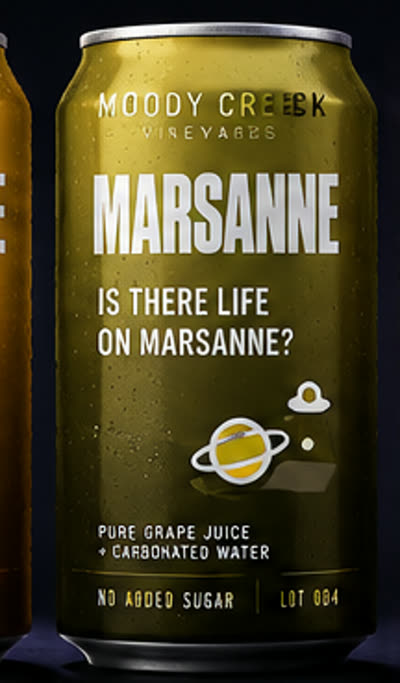
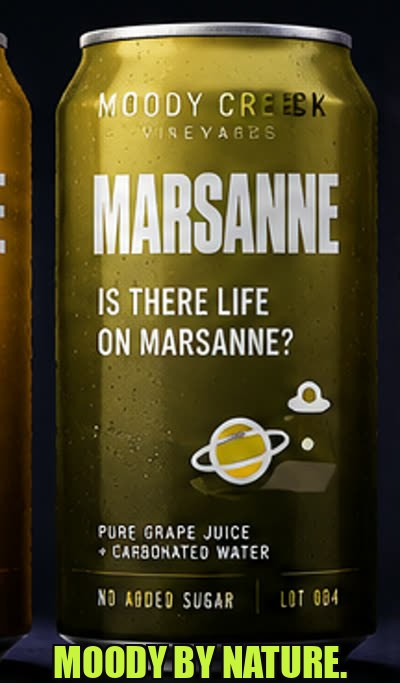
Add 'Moody by Nature.' tagline — hero, ticker, can line, baked into can renders

Changed region(s): [[0.12, 0.9224, 0.87, 1.0]]

diff --git a/labels.html b/labels.html
@@ -73,6 +73,7 @@ h1 .b{color:var(--verjus)}
 .art{width:4.7rem;height:auto;margin-block:.2rem;filter:drop-shadow(0 3px 7px rgba(0,0,0,.35))}
 .variety{font-size:clamp(1.05rem,3.4vw,1.35rem);line-height:.92;letter-spacing:.02em;
   text-shadow:0 2px 10px rgba(0,0,0,.35)}
+.mbn{font-family:var(--display);text-transform:uppercase;font-size:.62rem;letter-spacing:.18em;color:#C6F53C;opacity:.95}
 .punline{font-family:var(--body);font-style:italic;font-size:.66rem;line-height:1.25;opacity:.95}
 .kindline{font-family:var(--mono);font-size:.5rem;letter-spacing:.16em;text-transform:uppercase;opacity:.85}
 .bigstat{display:flex;align-items:baseline;gap:.4rem;margin-top:.35rem;
@@ -159,6 +160,7 @@ a{color:var(--verjus)}
       <h3 class="variety">Sémillon</h3>
       <p class="punline">One in a Sémillon.</p>
       <p class="kindline">White grape &middot; Sparkling</p>
+      <p class="mbn">Moody by Nature.</p>
       <div class="bigstat">
         <span class="num">12<span class="unit">g</span></span>
         <span class="lbl">sugar<br>per can</span>
@@ -217,6 +219,7 @@ a{color:var(--verjus)}
       <h3 class="variety">Sauvignon Blanc</h3>
       <p class="punline">My mind's gone Blanc.</p>
       <p class="kindline">White grape &middot; Sparkling</p>
+      <p class="mbn">Moody by Nature.</p>
       <div class="bigstat">
         <span class="num">11<span class="unit">g</span></span>
         <span class="lbl">sugar<br>per can</span>
@@ -275,6 +278,7 @@ a{color:var(--verjus)}
       <h3 class="variety">Roussanne</h3>
       <p class="punline">Roussanne shine, sleepyhead.</p>
       <p class="kindline">White grape &middot; Sparkling</p>
+      <p class="mbn">Moody by Nature.</p>
       <div class="bigstat">
         <span class="num">12<span class="unit">g</span></span>
         <span class="lbl">sugar<br>per can</span>
@@ -333,6 +337,7 @@ a{color:var(--verjus)}
       <h3 class="variety">Marsanne</h3>
       <p class="punline">Is there life on Marsanne?</p>
       <p class="kindline">White grape &middot; Sparkling</p>
+      <p class="mbn">Moody by Nature.</p>
       <div class="bigstat">
         <span class="num">12<span class="unit">g</span></span>
         <span class="lbl">sugar<br>per can</span>
@@ -391,6 +396,7 @@ a{color:var(--verjus)}
       <h3 class="variety">Grenache</h3>
       <p class="punline">We hold no Grenache.</p>
       <p class="kindline">Red grape &middot; Sparkling</p>
+      <p class="mbn">Moody by Nature.</p>
       <div class="bigstat">
         <span class="num">12<span class="unit">g</span></span>
         <span class="lbl">sugar<br>per can</span>
@@ -449,6 +455,7 @@ a{color:var(--verjus)}
       <h3 class="variety">Montepulciano</h3>
       <p class="punline">The full Monte.</p>
       <p class="kindline">Red grape &middot; Sparkling</p>
+      <p class="mbn">Moody by Nature.</p>
       <div class="bigstat">
         <span class="num">13<span class="unit">g</span></span>
         <span class="lbl">sugar<br>per can</span>
@@ -507,6 +514,7 @@ a{color:var(--verjus)}
       <h3 class="variety">Merlot</h3>
       <p class="punline">How Merlot can you go?</p>
       <p class="kindline">Red grape &middot; Sparkling</p>
+      <p class="mbn">Moody by Nature.</p>
       <div class="bigstat">
         <span class="num">11<span class="unit">g</span></span>
         <span class="lbl">sugar<br>per can</span>
@@ -565,6 +573,7 @@ a{color:var(--verjus)}
       <h3 class="variety">Malbec</h3>
       <p class="punline">Malbec by popular demand.</p>
       <p class="kindline">Red grape &middot; Sparkling</p>
+      <p class="mbn">Moody by Nature.</p>
       <div class="bigstat">
         <span class="num">11<span class="unit">g</span></span>
         <span class="lbl">sugar<br>per can</span>
@@ -623,6 +632,7 @@ a{color:var(--verjus)}
       <h3 class="variety">Syrah</h3>
       <p class="punline">Que Syrah, Syrah.</p>
       <p class="kindline">Red grape &middot; Sparkling</p>
+      <p class="mbn">Moody by Nature.</p>
       <div class="bigstat">
         <span class="num">11<span class="unit">g</span></span>
         <span class="lbl">sugar<br>per can</span>
@@ -681,6 +691,7 @@ a{color:var(--verjus)}
       <h3 class="variety">Cabernet Franc</h3>
       <p class="punline">Let's be Franc.</p>
       <p class="kindline">Red grape &middot; Sparkling</p>
+      <p class="mbn">Moody by Nature.</p>
       <div class="bigstat">
         <span class="num">12<span class="unit">g</span></span>
         <span class="lbl">sugar<br>per can</span>
@@ -739,6 +750,7 @@ a{color:var(--verjus)}
       <h3 class="variety">Cabernet Sauvignon</h3>
       <p class="punline">Hail a Cab.</p>
       <p class="kindline">Red grape &middot; Sparkling</p>
+      <p class="mbn">Moody by Nature.</p>
       <div class="bigstat">
         <span class="num">12<span class="unit">g</span></span>
         <span class="lbl">sugar<br>per can</span>
@@ -797,6 +809,7 @@ a{color:var(--verjus)}
       <h3 class="variety">Petit Verdot</h3>
       <p class="punline">Sweat the Petit stuff.</p>
       <p class="kindline">Red grape &middot; Sparkling</p>
+      <p class="mbn">Moody by Nature.</p>
       <div class="bigstat">
         <span class="num">12<span class="unit">g</span></span>
         <span class="lbl">sugar<br>per can</span>
@@ -855,6 +868,7 @@ a{color:var(--verjus)}
       <h3 class="variety">Mourvèdre</h3>
       <p class="punline">The Mourvèdre, the merrier.</p>
       <p class="kindline">Red grape &middot; Sparkling</p>
+      <p class="mbn">Moody by Nature.</p>
       <div class="bigstat">
         <span class="num">11<span class="unit">g</span></span>
         <span class="lbl">sugar<br>per can</span>
@@ -913,6 +927,7 @@ a{color:var(--verjus)}
       <h3 class="variety">Tannat</h3>
       <p class="punline">To be or Tannat to be?</p>
       <p class="kindline">Red grape &middot; Sparkling</p>
+      <p class="mbn">Moody by Nature.</p>
       <div class="bigstat">
         <span class="num">10<span class="unit">g</span></span>
         <span class="lbl">sugar<br>per can</span>
@@ -971,6 +986,7 @@ a{color:var(--verjus)}
       <h3 class="variety">Green Harvest</h3>
       <p class="punline">Picked too soon. On purpose.</p>
       <p class="kindline">Green harvest grape &middot; Sparkling</p>
+      <p class="mbn">Moody by Nature.</p>
       <div class="bigstat">
         <span class="num">9<span class="unit">g</span></span>
         <span class="lbl">sugar<br>per can</span>

diff --git a/index.html b/index.html
@@ -188,6 +188,12 @@ section { padding-block: clamp(4rem, 11vw, 8.5rem); }
 @keyframes tick { to { transform: translateX(-50%); } }
 @media (prefers-reduced-motion: reduce) { .ticker span { animation: none; } }
 
+.nature {
+  font-family: var(--display); text-transform: uppercase;
+  font-size: clamp(1.2rem, 3.4vw, 2rem); letter-spacing: .12em;
+  color: var(--verjus); text-shadow: 0 0 22px rgba(198,245,60,.3);
+}
+
 .hero-lede {
   font-size: clamp(1.15rem, 1rem + .8vw, 1.6rem);
   line-height: 1.4;
@@ -204,6 +210,7 @@ section { padding-block: clamp(4rem, 11vw, 8.5rem); }
 .rise:nth-child(2) { animation-delay: .18s; }
 .rise:nth-child(3) { animation-delay: .32s; }
 .rise:nth-child(4) { animation-delay: .46s; }
+.rise:nth-child(5) { animation-delay: .60s; }
 @keyframes rise { to { opacity: 1; transform: none; } }
 
 /* ======================= TWO INGREDIENTS ======================= */
@@ -314,7 +321,7 @@ section { padding-block: clamp(4rem, 11vw, 8.5rem); }
 }
 
 /* can render fills the card; text rides a scrim above it */
-.can .render { position: absolute; inset: 0; width: 100%; height: 100%; object-fit: cover; object-position: 50% 30%; }
+.can .render { position: absolute; inset: 0; width: 100%; height: 100%; object-fit: cover; object-position: 50% 12%; }
 .can .scrim { position: absolute; inset: 0; background: linear-gradient(180deg, transparent 40%, rgba(6,3,10,.55) 68%, rgba(6,3,10,.92) 100%); }
 .can > p, .can > h3 { position: relative; }
 .can .nm { font-size: clamp(1.5rem, 4.5vw, 1.9rem); }
@@ -426,6 +433,7 @@ footer { border-top: 1px solid var(--line); padding-block: clamp(2.5rem,6vw,4rem
   <div class="wrap stack">
     <p class="eyebrow rise">Pre-launch &nbsp;·&nbsp; First drop at green harvest</p>
     <h1 class="wordmark rise"><span>Moody</span><span class="b">Creek</span></h1>
+    <p class="nature rise">Moody by Nature.</p>
     <p class="hero-lede rise">Fourteen wine grapes. Pressed loud, poured cold, zero caffeine. All mood.</p>
     <div class="hero-foot rise">
       <p class="eyebrow">Grapes &amp; bubbles. Nothing else.</p>
@@ -435,7 +443,7 @@ footer { border-top: 1px solid var(--line); padding-block: clamp(2.5rem,6vw,4rem
   </div>
 </header>
 
-<div class="ticker" aria-hidden="true"><span>Moody drinks. &nbsp;·&nbsp; Zero caffeine. &nbsp;·&nbsp; All mood. &nbsp;·&nbsp; Fourteen grapes. &nbsp;·&nbsp; Grapes &amp; bubbles. Nothing else. &nbsp;·&nbsp; Moody drinks. &nbsp;·&nbsp; Zero caffeine. &nbsp;·&nbsp; All mood. &nbsp;·&nbsp; Fourteen grapes. &nbsp;·&nbsp; Grapes &amp; bubbles. Nothing else. &nbsp;·&nbsp; </span></div>
+<div class="ticker" aria-hidden="true"><span>Moody drinks. &nbsp;·&nbsp; Zero caffeine. &nbsp;·&nbsp; All mood. &nbsp;·&nbsp; Fourteen grapes. &nbsp;·&nbsp; Grapes &amp; bubbles. Nothing else. &nbsp;·&nbsp; Moody by Nature. &nbsp;·&nbsp; Moody drinks. &nbsp;·&nbsp; Zero caffeine. &nbsp;·&nbsp; All mood. &nbsp;·&nbsp; Fourteen grapes. &nbsp;·&nbsp; Grapes &amp; bubbles. Nothing else. &nbsp;·&nbsp; Moody by Nature. &nbsp;·&nbsp; </span></div>
 
 <!-- ======================= TWO INGREDIENTS ======================= -->
 <section class="ingredients">
